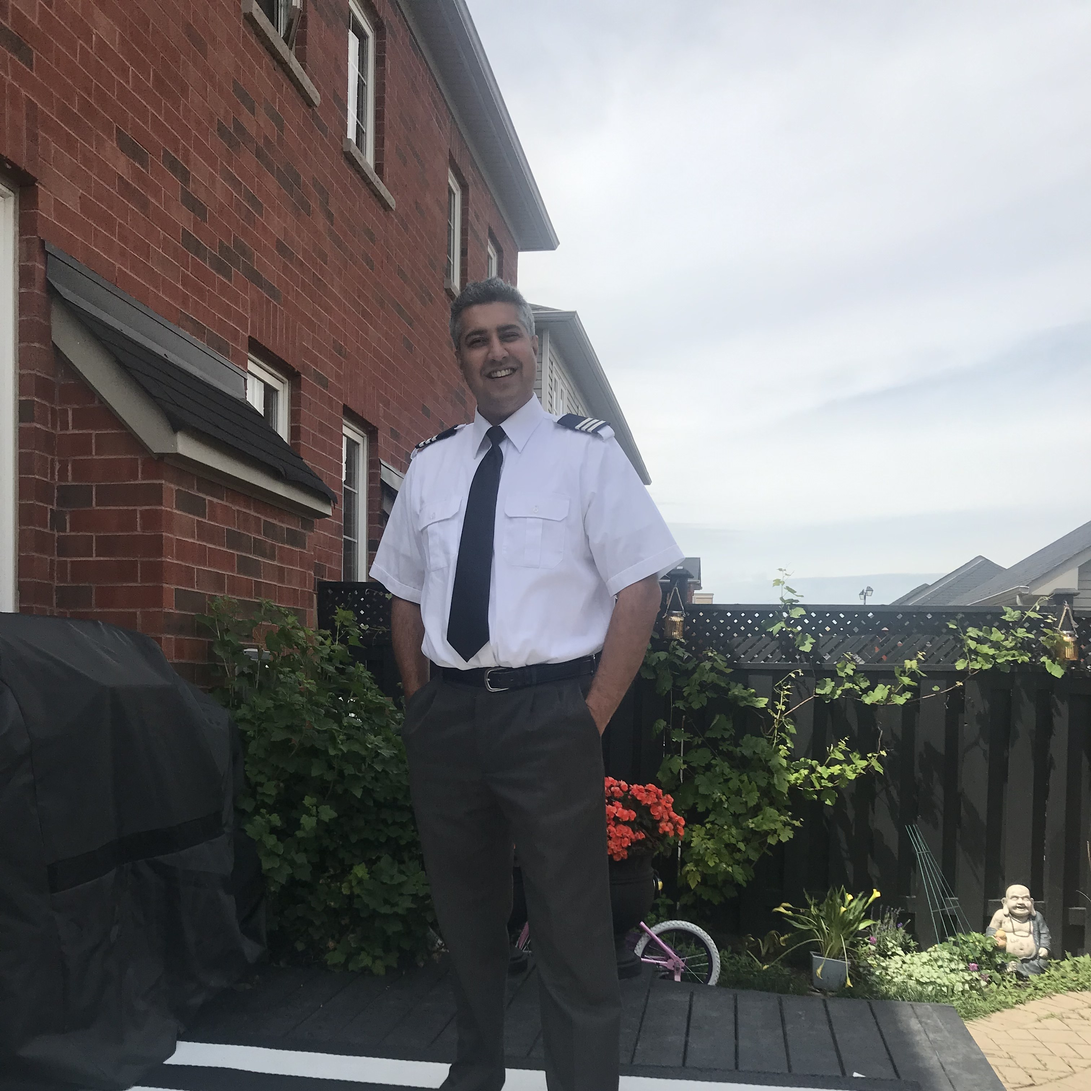
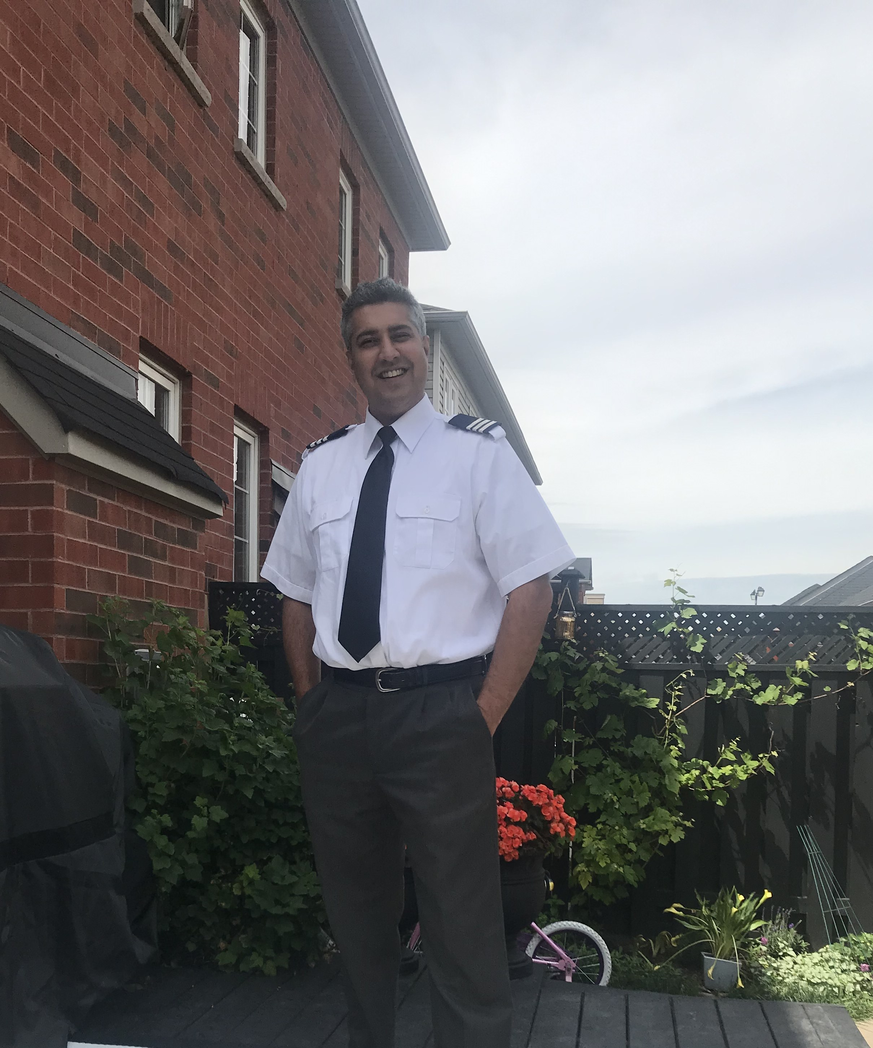
Add correct cockpit photo and fix Ash photo crop/rotation on About page

diff --git a/client/src/pages/About.jsx b/client/src/pages/About.jsx
@@ -9,7 +9,7 @@ export default function About() {
           <img
             src="/about-ash-leila.jpg"
             alt="Leila and Ash in the cockpit"
-            style={{ width: '100%', height: 280, objectFit: 'cover', objectPosition: 'center top', display: 'block' }}
+            style={{ width: '100%', height: 280, objectFit: 'cover', objectPosition: 'center center', display: 'block' }}
           />
           <div style={{ textAlign: 'center', fontSize: '0.78rem', color: 'var(--text2)', opacity: 0.5, padding: '8px 0 10px' }}>Leila &amp; Ash</div>
         </div>
@@ -17,7 +17,7 @@ export default function About() {
           <img
             src="/about-ash.jpg"
             alt="Ash in pilot uniform"
-            style={{ width: '100%', height: 280, objectFit: 'cover', objectPosition: 'center top', display: 'block' }}
+            style={{ width: '100%', height: 280, objectFit: 'cover', objectPosition: 'center 15%', display: 'block' }}
           />
           <div style={{ textAlign: 'center', fontSize: '0.78rem', color: 'var(--text2)', opacity: 0.5, padding: '8px 0 10px' }}>Ash — Certified Flight Instructor</div>
         </div>
